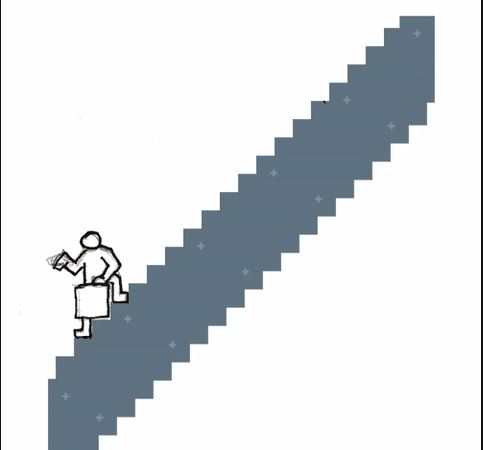
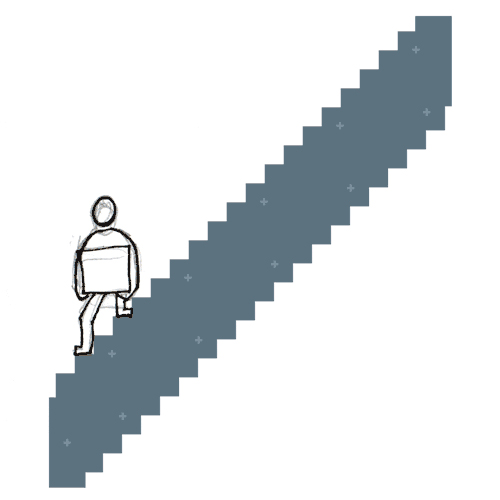
P1: change the gif when drop is done
Also change the static pic to make it look better

diff --git a/project1/index.html b/project1/index.html
@@ -26,9 +26,11 @@
 
   <body>
      <img id="sisyphus" src="assets/images/sisyphus.gif">
+
      <img id="static" src="assets/images/static.jpg">
      <img id="mind" src="assets/images/brain.jpg" width="150 height="150">
-        <img id="tool" src="assets/images/tool.png" width="150" height="150">
+      <img id="tool" src="assets/images/tool.png" width="150" height="150">
+
 <div id=text>why</div>
 <div id="dialog" title="Basic dialog" hidden>
   <p>This is the default dialog which is useful for displaying information. The dialog window can be moved, resized and closed with the 'x' icon.</p>

diff --git a/project1/js/script.js b/project1/js/script.js
@@ -101,8 +101,8 @@ function showMind(){
 function dropEffect(event,ui){
 ui.draggable.remove();
 $(this).attr('src', 'assets/images/brainfree.png');
-
-
+$('#sisyphus').attr('src', 'assets/images/end.gif');
+$('#static').css('display','none');
 }
 function dragTool(){
 $( "#tool" ).draggable();
